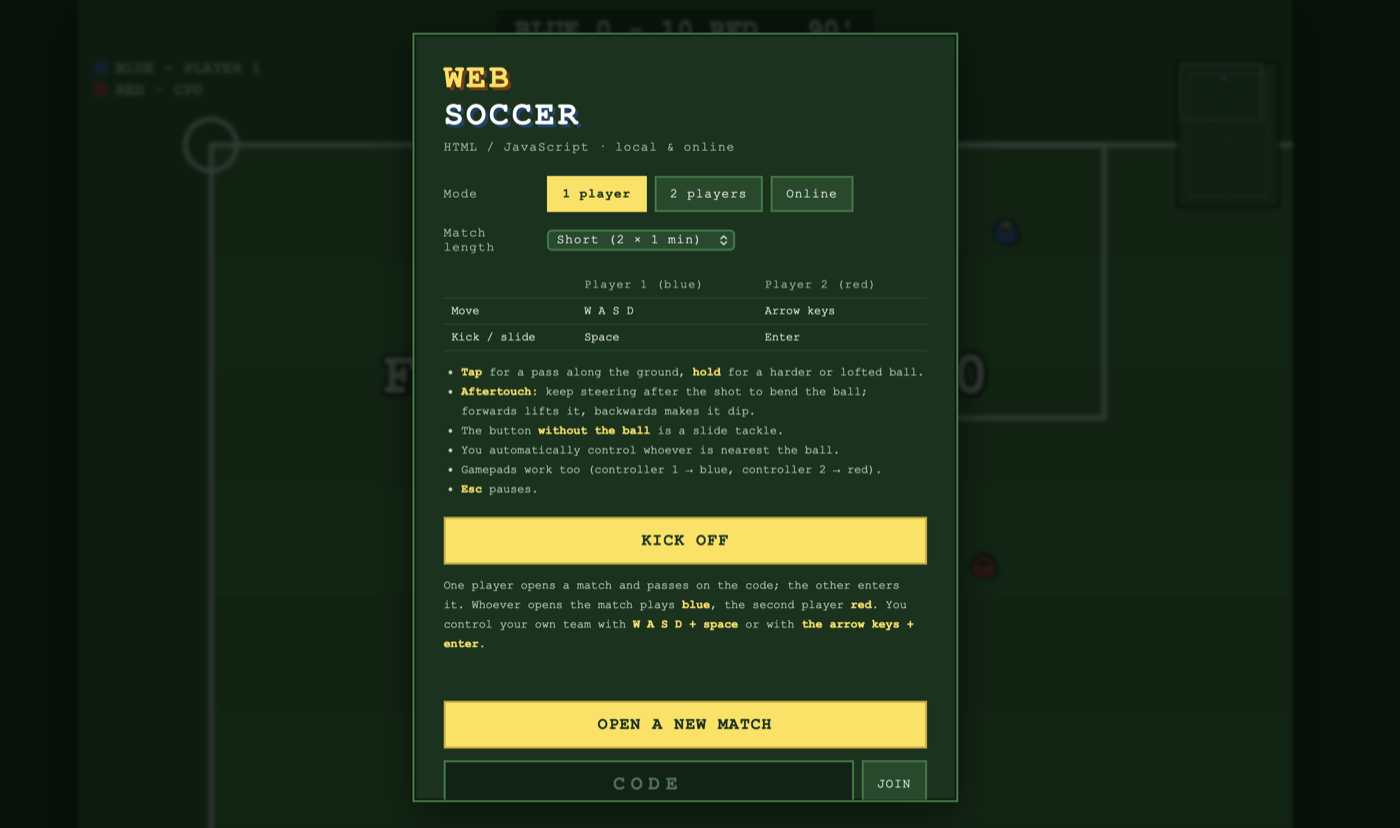
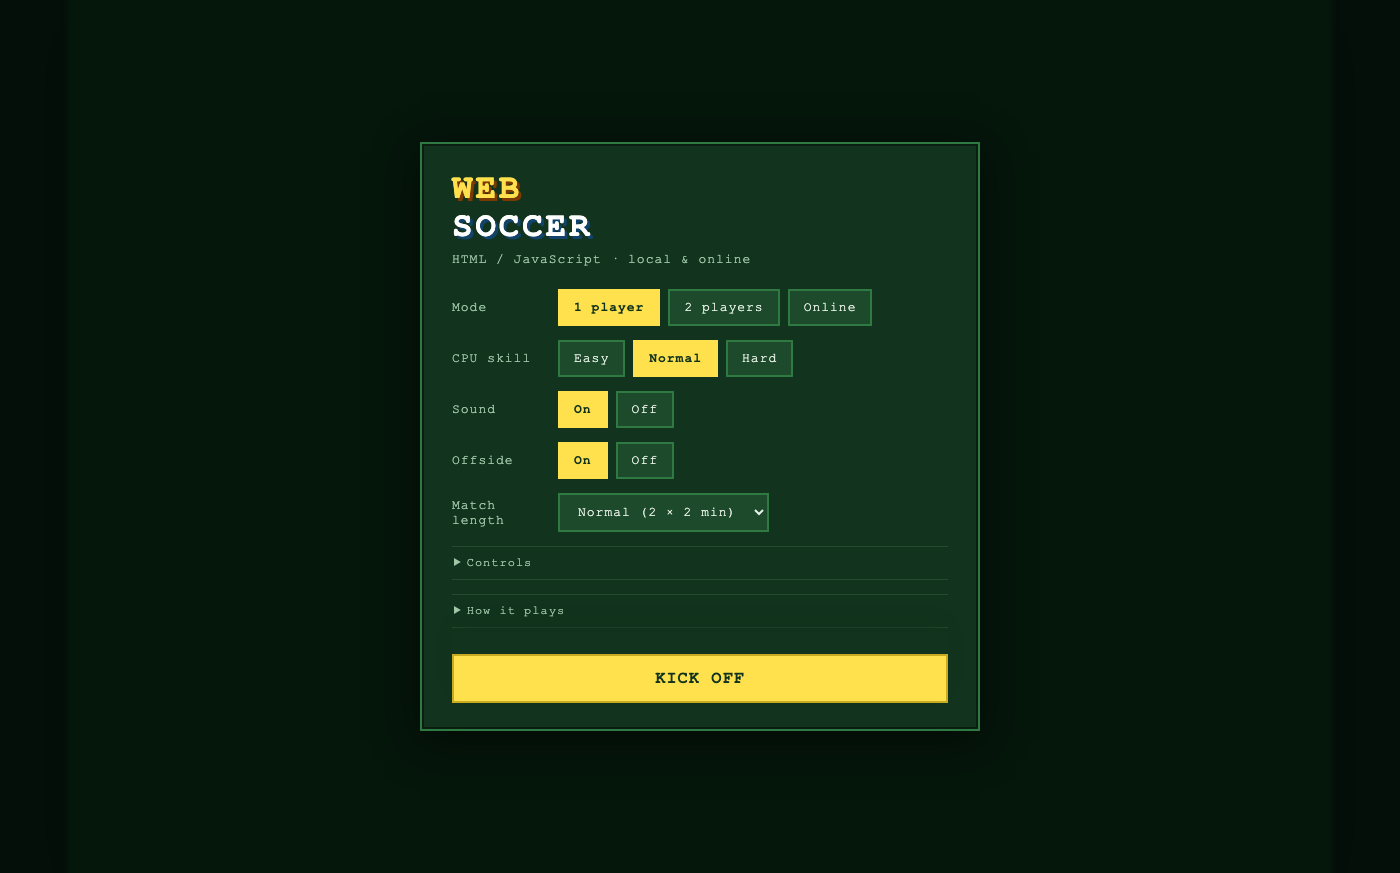
Fresh screenshots, taken by driving a real browser
tools/screenshot.js starts Chrome headless and steers it over the DevTools
protocol, which node speaks with its built-in WebSocket - no puppeteer, no
dependency. It clicks through the menu, holds a key so the human side is not
a statue, and waits for the ball to reach a goalmouth before pressing the
shutter. The pictures are the real page rendering a real match.

Having a browser to look through immediately paid for itself: the kick off
button was being cut in half at the bottom of the menu. A sticky element can
never leave its own container, and the button sat inside the mode panel,
which had already scrolled past. Both primary buttons now live in a shared
footer that is a direct child of the panel.

The menu was also simply too long - 995px of content in 799px of panel - so
the controls table and the tips fold away behind summaries. On a phone held
sideways everything now fits with the button pinned to the bottom.

Changed region(s): [[0.1229, 0.0302, 0.8293, 1.0], [0.1229, 0.0604, 0.1843, 0.0906], [0.0614, 0.0604, 0.0921, 0.1208]]

diff --git a/tools/screenshot.js b/tools/screenshot.js
@@ -1,0 +1,165 @@
+// Takes the screenshots in the README, by driving a real browser.
+//
+//   npm start                 # in another terminal
+//   node tools/screenshot.js
+//
+// Chrome is started headless and steered over the DevTools protocol, which node
+// can speak with its built-in WebSocket - no puppeteer, no dependency. What ends
+// up in the PNGs is the real page rendering a real match, not a mock-up: the
+// tool clicks the menu and waits, exactly as a player would.
+
+import { spawn } from 'node:child_process';
+import { existsSync, mkdirSync, mkdtempSync, writeFileSync } from 'node:fs';
+import { tmpdir } from 'node:os';
+import { join } from 'node:path';
+
+const URL_UNDER_TEST = process.env.URL || 'http://localhost:5173/';
+const PORT = 9223;
+const OUT = 'docs/screenshots';
+
+const CHROME = [
+  '/Applications/Google Chrome.app/Contents/MacOS/Google Chrome',
+  '/Applications/Chromium.app/Contents/MacOS/Chromium',
+  '/Applications/Microsoft Edge.app/Contents/MacOS/Microsoft Edge',
+  '/usr/bin/google-chrome',
+  '/usr/bin/chromium',
+];
+
+const sleep = (ms) => new Promise((r) => setTimeout(r, ms));
+
+class Devtools {
+  constructor(ws) {
+    this.ws = ws;
+    this.id = 0;
+    this.pending = new Map();
+    ws.onmessage = (ev) => {
+      const msg = JSON.parse(ev.data);
+      const resolve = this.pending.get(msg.id);
+      if (resolve) {
+        this.pending.delete(msg.id);
+        resolve(msg.result);
+      }
+    };
+  }
+
+  send(method, params = {}) {
+    const id = ++this.id;
+    this.ws.send(JSON.stringify({ id, method, params }));
+    return new Promise((resolve) => this.pending.set(id, resolve));
+  }
+
+  async evaluate(expression) {
+    const res = await this.send('Runtime.evaluate', { expression, awaitPromise: true });
+    return res?.result?.value;
+  }
+
+  /** A real key press, so the blue side is not a statue in the pictures. */
+  async key(code, key, down) {
+    await this.send('Input.dispatchKeyEvent', {
+      type: down ? 'keyDown' : 'keyUp', code, key, windowsVirtualKeyCode: 0,
+    });
+  }
+
+  /** Waits for the match to reach a moment worth photographing. */
+  async waitForAction(seconds = 40) {
+    for (let i = 0; i < seconds * 5; i++) {
+      const near = await this.evaluate(`(() => {
+        const g = window.__game;
+        if (!g?.state) return false;
+        const b = g.state.ball;
+        // Within shooting range of either goal, and someone is on the ball.
+        const top = Math.hypot(b.x - 400, b.y - 80);
+        const bottom = Math.hypot(b.x - 400, b.y - 1080);
+        return (Math.min(top, bottom) < 260) && !!b.owner;
+      })()`);
+      if (near) return true;
+      await sleep(200);
+    }
+    return false;
+  }
+
+  async shot(file) {
+    const res = await this.send('Page.captureScreenshot', { format: 'png' });
+    writeFileSync(join(OUT, file), Buffer.from(res.data, 'base64'));
+    console.log(`wrote ${OUT}/${file}`);
+  }
+}
+
+async function findPage() {
+  for (let i = 0; i < 60; i++) {
+    try {
+      const list = await fetch(`http://localhost:${PORT}/json/list`).then((r) => r.json());
+      const page = list.find((t) => t.type === 'page' && t.webSocketDebuggerUrl);
+      if (page) return page;
+    } catch { /* browser still starting */ }
+    await sleep(250);
+  }
+  throw new Error('Chrome never came up on the debugging port');
+}
+
+async function main() {
+  const chrome = CHROME.find((p) => existsSync(p));
+  if (!chrome) throw new Error(`No Chrome found. Looked in:\n  ${CHROME.join('\n  ')}`);
+
+  mkdirSync(OUT, { recursive: true });
+  const profile = mkdtempSync(join(tmpdir(), 'websoccer-shot-'));
+  const browser = spawn(chrome, [
+    '--headless=new',
+    `--remote-debugging-port=${PORT}`,
+    `--user-data-dir=${profile}`,
+    '--hide-scrollbars',
+    '--disable-gpu',
+    '--no-first-run',
+    '--window-size=1400,960',
+    // The tune and the crowd would otherwise wait for a gesture that never comes;
+    // this lets the page make sound without one, which also unblocks the loop.
+    '--autoplay-policy=no-user-gesture-required',
+    URL_UNDER_TEST,
+  ], { stdio: process.env.DEBUG_CHROME ? 'inherit' : 'ignore' });
+
+  try {
+    const page = await findPage();
+    const ws = new WebSocket(page.webSocketDebuggerUrl);
+    await new Promise((resolve, reject) => {
+      ws.onopen = resolve;
+      ws.onerror = () => reject(new Error('could not attach to the page'));
+    });
+    const dt = new Devtools(ws);
+    await dt.send('Page.enable');
+    await dt.send('Runtime.enable');
+    await sleep(1200); // modules load and the menu paints
+
+    // 1. The menu.
+    await dt.shot('menu.png');
+
+    // 2. A match in progress: hold a direction so the human side plays, then
+    //    wait until the ball is actually somewhere interesting.
+    await dt.evaluate("document.getElementById('start').click()");
+    await sleep(500);
+    await dt.key('KeyW', 'w', true);
+    await dt.waitForAction();
+    await dt.shot('gameplay.png');
+    await dt.key('KeyW', 'w', false);
+
+    // 3. A phone, held sideways, with the on-screen controls.
+    await dt.send('Emulation.setDeviceMetricsOverride', {
+      width: 844, height: 390, deviceScaleFactor: 2, mobile: true,
+    });
+    await dt.send('Emulation.setTouchEmulationEnabled', { enabled: true, maxTouchPoints: 5 });
+    await dt.send('Page.navigate', { url: URL_UNDER_TEST });
+    await sleep(2000);
+    await dt.shot('mobile-menu.png');
+    await dt.evaluate("document.getElementById('start').click()");
+    await sleep(7000);
+    await dt.shot('mobile.png');
+
+    ws.close();
+  } finally {
+    browser.kill();
+  }
+}
+
+main().catch((err) => {
+  console.error(`FAIL: ${err.message}`);
+  process.exit(1);
+});

diff --git a/index.html b/index.html
@@ -77,6 +77,8 @@
           </select>
         </div>
 
+        <details id="controlsBox">
+        <summary>Controls</summary>
         <table class="keys" id="keysTable">
           <thead>
             <tr><th></th><th>Player 1 (blue)</th><th id="p2head">Player 2 (red)</th></tr>
@@ -91,11 +93,14 @@
           </tfoot>
         </table>
         <p id="bindHint" class="status">Click a key to change it.</p>
+        </details>
 
         <p id="iosHint" class="fineprint hidden"></p>
 
         <div id="localSetup">
 
+          <details>
+          <summary>How it plays</summary>
           <ul class="hints">
             <li><b>Tap</b> for a pass along the ground, <b>hold</b> for a harder or lofted ball.</li>
             <li><b>Aftertouch:</b> keep steering after the shot to bend the ball; forwards lifts it, backwards makes it dip.</li>
@@ -104,8 +109,8 @@
             <li>Gamepads work too (controller 1 &rarr; blue, controller 2 &rarr; red).</li>
             <li><b>Esc</b> pauses.</li>
           </ul>
+          </details>
 
-          <button id="start" class="primary">KICK OFF</button>
         </div>
 
         <div id="onlineSetup" class="hidden">
@@ -118,8 +123,6 @@
           <div id="roomCode" class="code hidden"></div>
           <p id="onlineStatus" class="status"></p>
 
-          <button id="host" class="primary">OPEN A NEW MATCH</button>
-
           <div class="joinrow">
             <input id="joinCode" maxlength="4" placeholder="CODE" autocomplete="off" spellcheck="false">
             <button id="join">JOIN</button>
@@ -129,6 +132,10 @@
             Works between two browser tabs, between computers on the same network,
             and across the internet once you host <code>server/relay.js</code> somewhere.
           </p>
+        </div>
+        <div class="panelFooter">
+          <button id="start" class="primary">KICK OFF</button>
+          <button id="host" class="primary hidden">OPEN A NEW MATCH</button>
         </div>
       </div>
     </div>

diff --git a/styles.css b/styles.css
@@ -237,10 +237,19 @@ button.primary:disabled:hover { background: #ffe14d; }
 /* A phone held sideways is about 400px tall. The panel scrolls, but a button
    you have to scroll to find is a button nobody presses, so the primary action
    sticks to the bottom of it and everything else gives up its spare room. */
-button.primary {
+/* Sticky on the footer rather than on the button: a sticky element can never
+   leave its own container, and inside the mode panels the button was being
+   clamped to a box that had already scrolled off. As a direct child of the
+   panel it has the whole scroll length to work with. */
+.panelFooter {
   position: sticky;
-  bottom: -1px;
+  bottom: 0;
   z-index: 2;
+  padding-top: 4px;
+  background: #12331d;
+  /* Its own dark edge, so the content scrolling underneath does not appear to
+     touch it, and a shadow to lift it off the list. */
+  box-shadow: 0 -12px 16px -8px rgba(18, 51, 29, 0.95);
 }
 
 @media (max-height: 560px) {
@@ -260,6 +269,26 @@ button.primary {
 @media (pointer: coarse) {
   .hints { display: none; }
 }
+
+details {
+  margin: 14px 0 4px;
+  border-top: 1px solid #234c2f;
+  border-bottom: 1px solid #234c2f;
+}
+
+summary {
+  padding: 9px 2px;
+  font-size: 12px;
+  letter-spacing: 1px;
+  color: #9fc7a8;
+  cursor: pointer;
+}
+
+summary:hover { color: #ffe14d; }
+
+details[open] summary { color: #ffe14d; }
+
+details .keys { margin-top: 0; }
 
 /* --- touch controls --- */
 

diff --git a/src/main.js b/src/main.js
@@ -385,6 +385,10 @@ document.querySelectorAll('[data-mode]').forEach((btn) => {
     document.querySelectorAll('[data-mode]').forEach((b) => b.classList.toggle('active', b === btn));
     localSetup.classList.toggle('hidden', mode === 'online');
     onlineSetup.classList.toggle('hidden', mode !== 'online');
+    // The two primary buttons live in the shared footer, so they are swapped
+    // here rather than by hiding the panel around them.
+    document.getElementById('start').classList.toggle('hidden', mode === 'online');
+    document.getElementById('host').classList.toggle('hidden', mode !== 'online');
     renderBindings();
     // Only worth choosing when there is a CPU to play against.
     difficultyRow.classList.toggle('hidden', mode !== '1');

diff --git a/README.md b/README.md
@@ -14,7 +14,7 @@ receives them.
 modes run straight from the page. Online multiplayer needs a relay server, which
 static hosting cannot provide; see [Playing online](#playing-online).
 
-![A blue attack breaking into the red penalty area: the keeper has come off his line, defenders are closing in, and the radar in the top right shows the rest of the pitch](docs/screenshots/gameplay.png)
+![A blue attack breaking into the red penalty area, the keeper off his line and defenders closing in, with the radar top right](docs/screenshots/gameplay.png)
 
 ## Getting started
 
@@ -34,7 +34,7 @@ internet, troubleshooting) see [INSTALL.md](INSTALL.md).
 Want to help build it? Read [CONTRIBUTING.md](CONTRIBUTING.md) — mostly about why
 the simulation has to stay deterministic.
 
-![The start menu: mode selector for 1 player, 2 players and online, a match length dropdown, the control scheme, a KICK OFF button, and below it the online panel with OPEN A NEW MATCH and a field to enter a room code](docs/screenshots/menu.png)
+![The start menu: mode, CPU skill, sound and offside switches, match length, and a KICK OFF button, with the controls and the tips folded away](docs/screenshots/menu.png)
 
 ## Controls
 
@@ -45,7 +45,18 @@ the simulation has to stay deterministic.
 | Switch player | `Q`            | `R Shift`      |
 | Pause        | `Esc`           | (not online)   |
 
-### Fullscreen on a phone
+### On a phone
+
+You get a thumbstick and two buttons on screen instead, and the game asks you to
+turn the device sideways — a pitch a few centimetres tall is no use to anyone.
+The on-screen controls produce the same input as the keyboard, so nothing else in
+the game knows the difference.
+
+![The menu on a phone held sideways: the same options, compacted, with the kick off button pinned to the bottom](docs/screenshots/mobile-menu.png)
+
+![A match on a phone, with a thumbstick bottom left and the kick and switch buttons bottom right](docs/screenshots/mobile.png)
+
+#### Fullscreen
 
 On Android the game takes the whole screen when you kick off, address bar and
 all. **Safari on iPhone has no fullscreen for a web page** — no page can hide
@@ -54,14 +65,9 @@ opens as its own app with nothing around it. The menu says so on an iPhone that
 has not installed it yet. There is a web manifest and a set of icons for exactly
 this; `node tools/make-icons.js` regenerates them.
 
-### Controls
+### Changing the keys
 
-On a **phone or tablet** you get a thumbstick and two buttons on screen instead,
-and the game asks you to turn the device sideways — a pitch a few centimetres
-tall is no use to anyone. The on-screen controls produce the same input as the
-keyboard, so nothing else in the game knows the difference.
-
-Those are only the defaults: **every key can be changed in the menu**. Click a key
+Those defaults are only defaults: **every key can be changed in the menu**. Click a key
 and press the one you want, or pick a preset — arrows and space together, say,
 which is a combination the old fixed layout could not give you. Your choice is
 remembered in the browser.
@@ -153,9 +159,6 @@ Your own AI team-mates always play at full strength — handicapping them would
 make the game harder for you, not easier. The setting only ever applies to a CPU
 team, and `tools/simtest.js` checks that the ladder still holds.
 
-![The full time screen after a match, showing the final score across the pitch and the line "Press ENTER for the menu"](docs/screenshots/full-time.png)
-
-The CPU does not hold back.
 
 ## Playing online
 
@@ -270,6 +273,15 @@ Keep to these rules when extending things, or determinism goes out of the window
 - no `Date.now()` or `performance.now()` in the simulation;
 - no iteration over `Set`/`Object.keys()` whose order can vary;
 - rendering must never write to `state`.
+
+## Screenshots
+
+The pictures above are taken by `node tools/screenshot.js`, with the local server
+running. It starts Chrome headless and drives it over the DevTools protocol,
+which node can speak with its built-in WebSocket - no puppeteer, no dependency.
+It clicks through the menu, holds a key so the human side actually plays, and
+waits for the ball to reach a goalmouth before pressing the shutter, so what you
+see is the real page rendering a real match rather than a mock-up.
 
 ## Tests
 
